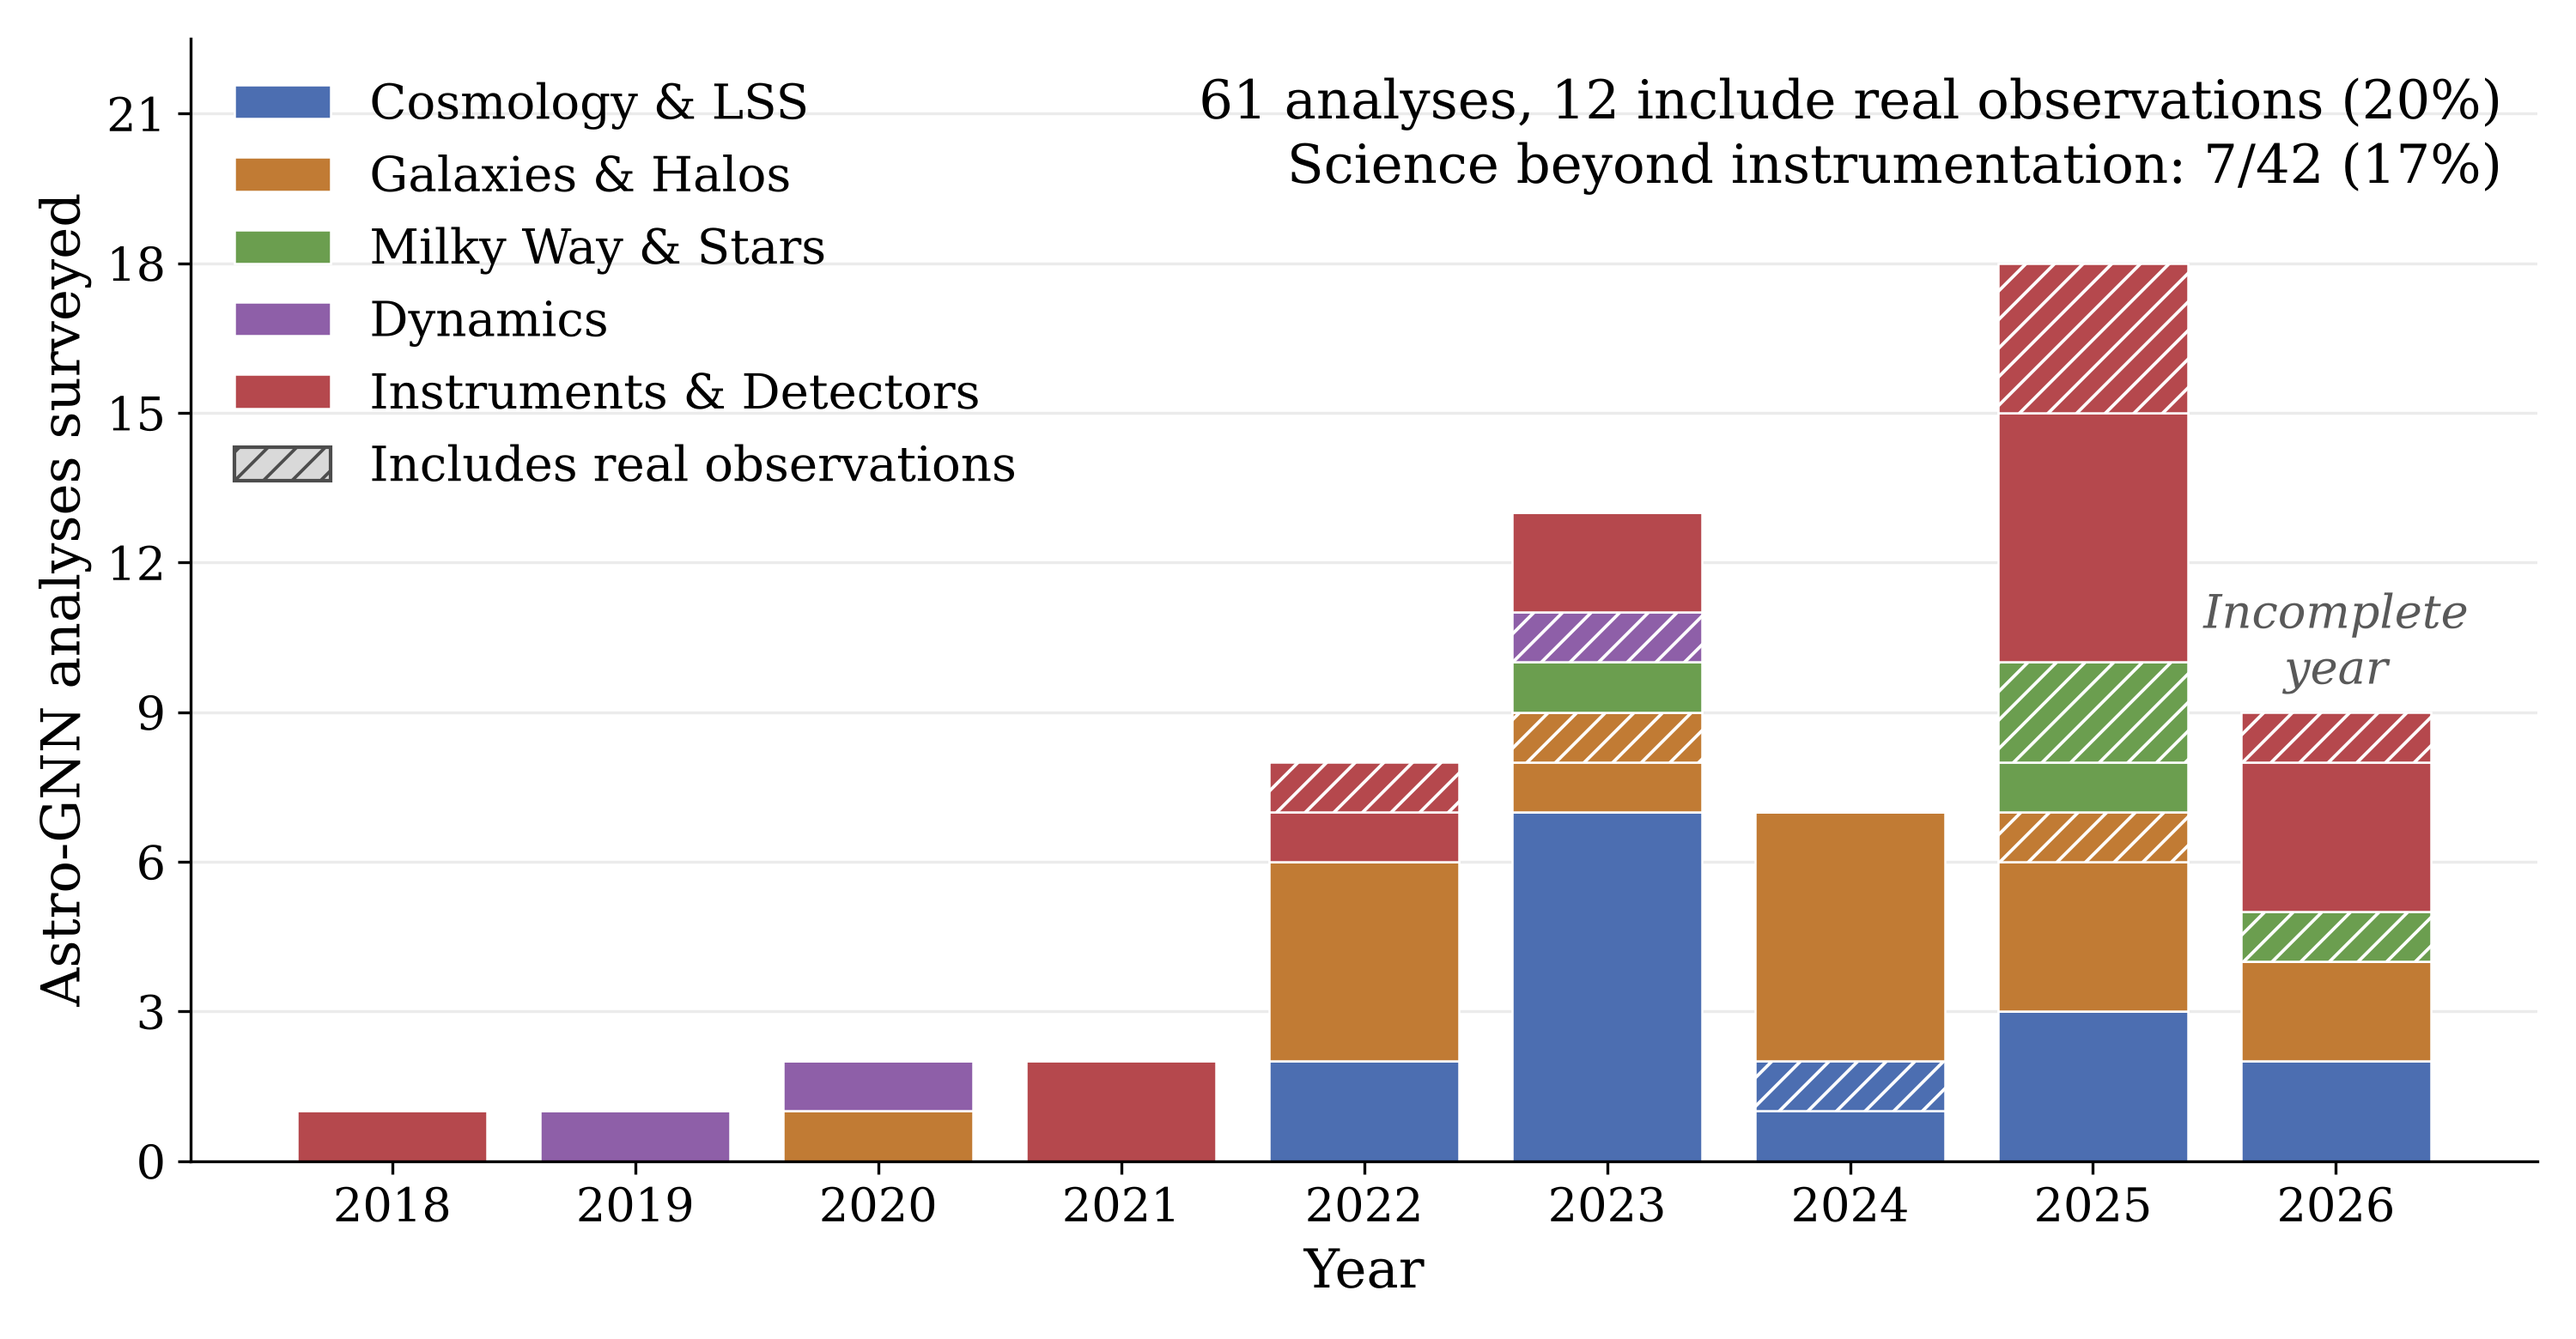
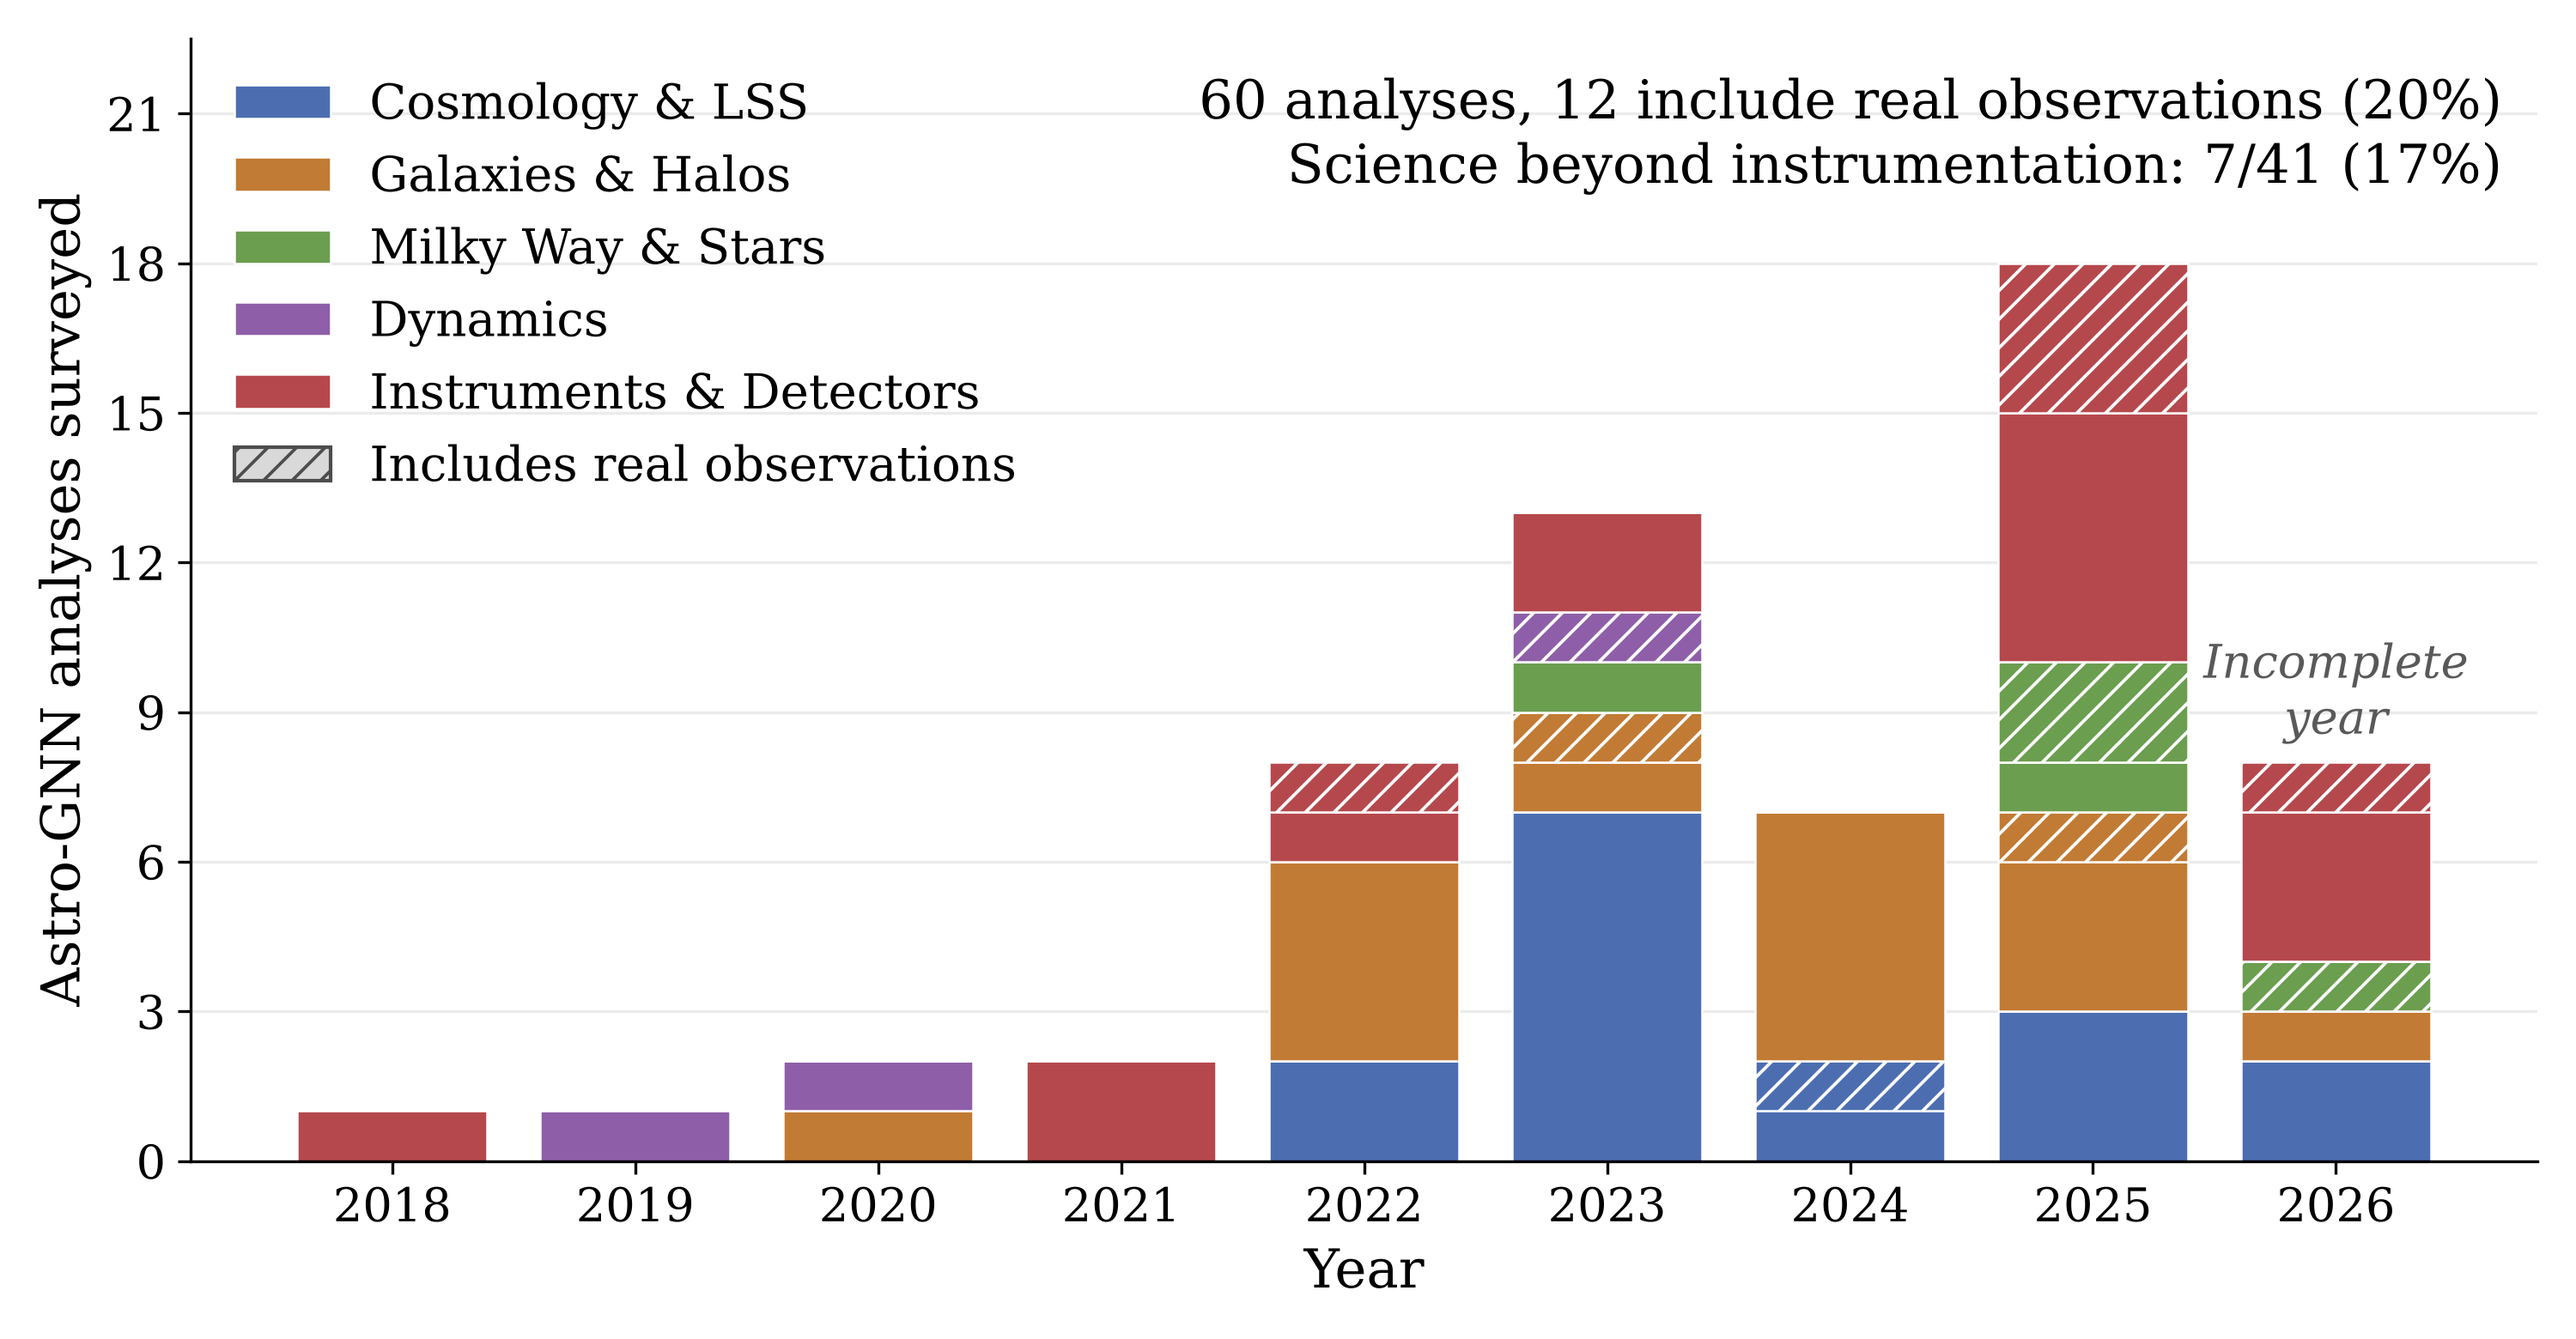
Survey finalised: 61 analyses, verified flags, Appendix 3 table; thesis bib entry fixed

Changed region(s): [[0.868, 0.4308, 0.961, 0.6154], [0.868, 0.6769, 0.961, 0.7692], [0.465, 0.0615, 0.496, 0.0923]]

diff --git a/main.tex b/main.tex
@@ -660,7 +660,7 @@ Beware two red flags: an invariance or equivariance claimed but not held, and th
 Although a review focuses mostly on what has been done, the synthesis of these prior works also points beyond the present state of the art. We now flag three directions we expect to matter most: the move onto real data, generative graph models, and new kinds of graphs.
 
 \begin{itemize}
-    \item \textbf{Application on real data.} The ultimate goal of natural science is experiments done using real-world data. The survey of GNN applications above reveals a clear gap (Figure~\ref{fig:papers_per_year}). Of the roughly sixty graph-network analyses we cite, fewer than one in four includes any real observations, and the rate splits unevenly: instrumentation, detector reconstruction at IceCube and the Pierre Auger Observatory above all, includes real data in \textcolor{red}{nearly} one analysis in three, while the scientific analyses manage only one in six. This is the single most consequential gap in the field. It is a gap based more on general practice than on the domain-adaptive capabilities of GNNs. Any data-driven method trained on a simulation inherits the simulation's assumptions, and the move to real data demands a robustness to shifts stemming from survey masks, fibre collisions, redshift-space distortions, selection, and errors on e.g. positions, which is only now being developed. The graph framing is crucial for successfully bridging simulation and observation --- both in theory and practice. Because robust inductive biases can be included (e.g. galaxy positions enter as biased tracers rather than as pixels) the domain shift between simulation and survey typically stays smaller when using GNNs compared to similar methods, which keeps domain adaptation either tractable or unnecessary \citep{deSanti2023_fieldlevel_LFI, Roncoli2023_domainadaptation_cosmology, Lee2024_SDSS_domaingeneralization}. Porting these statistical methods onto real data is the field's most important next step. The domain gap is primed for being closed with GNNs.
+    \item \textbf{Application on real data.} The ultimate goal of natural science is experiments done using real-world data. The survey of GNN applications above reveals a clear gap (Figure~\ref{fig:papers_per_year}). Of the roughly sixty graph-network analyses we cite, fewer than one in four includes any real observations, and the rate splits unevenly: instrumentation, detector reconstruction at IceCube and the Pierre Auger Observatory above all, includes real data in \textcolor{red}{roughly one analysis in four}, while the scientific analyses manage only one in six. This is the single most consequential gap in the field. It is a gap based more on general practice than on the domain-adaptive capabilities of GNNs. Any data-driven method trained on a simulation inherits the simulation's assumptions, and the move to real data demands a robustness to shifts stemming from survey masks, fibre collisions, redshift-space distortions, selection, and errors on e.g. positions, which is only now being developed. The graph framing is crucial for successfully bridging simulation and observation --- both in theory and practice. Because robust inductive biases can be included (e.g. galaxy positions enter as biased tracers rather than as pixels) the domain shift between simulation and survey typically stays smaller when using GNNs compared to similar methods, which keeps domain adaptation either tractable or unnecessary \citep{deSanti2023_fieldlevel_LFI, Roncoli2023_domainadaptation_cosmology, Lee2024_SDSS_domaingeneralization}. Porting these statistical methods onto real data is the field's most important next step. The domain gap is primed for being closed with GNNs.
     \item \textbf{Generative graph models.} A generative graph model synthesises a full graph from a lower-dimensional seed. The difficulty begins with the sheer size of the space being sampled: the number of graphs on $N$ nodes grows super-exponentially, as $2^{N(N-1)/2}$, and the model must place its mass on the vanishingly small subspace that is physically valid. But the astrophysical prize is worth that difficulty: sampling plausible merger trees or satellite environments directly from observed galaxies would be transformative. Merger-tree generation from observed properties is especially fundamental to galaxy science, since it would let us compare stellar and halo assembly directly. The astrophysical cases so far, the synthesis of merger trees and cosmic fields \citep{Tang2022_merger_normalizingflow, Jagvaral2022_intrinsicalignment_GNN, Nguyen2024_FLORAH_assembly, Nguyen2025_mergertree_generative, Nguyen2026_DREAMS_diffusion, Onutu2025_scorematching_cosmology}, already raise a second difficulty: the problems are all ill-posed, since any reasonable full graph has far more degrees of freedom than the seed vector $z$ that generates it, so the map $z \mapsto G$ is one-to-many and the model must learn a distribution $p(G \mid z)$ rather than a function \citep{Vignac2023_DiGress}. Although this structure makes the problem extremely hard, it also has a useful consequence: a forward generator $p(G\mid z)$ defines, through Bayes, its inverse $p(z\mid G) \propto p(G\mid z)\,p(z)$, so a generative model implies that the regression --- recovering the seed parameters from a graph --- can also be done. Momentum for these methods comes increasingly from outside astrophysics: graph and structure generation already designs molecules and proteins \citep{Hoogeboom2022_EDM_molecules, Watson2023_RFdiffusion}, and reward-driven samplers over graphs such as \texttt{GFlowNets} can produce diverse, high-value candidates for scientific discovery \citep{Bengio2021_GFlowNet, Jain2022_GFlowNet_biological, Bengio2023_GFlowNet_foundations}. We expect this tooling to be developed further, carried in part by heavy private investment and the economics of drug discovery, and astrophysics stands to inherit these advances.
     \item \textbf{New kinds of graphs.} The nature of the Universe is dynamic and multi-scale, meaning that the graphs themselves should ideally be able to (a) change with time and (b) capture long- and short-range interactions at once. Some solutions to capture these necessities are already in place. The \emph{topological} GNN combines graphs at different scales, capturing long- and short-range coupling without inflating the edge count to billions \citep{Lee2025_topological_cosmology}; the cosmic web is the natural target, where a galaxy's fate is spun both from its nearest neighbours and from the larger scale structures around it. The \emph{temporal} GNN, defined on a graph that rewires, grows, or shrinks with time\citep{Rossi2020_temporal_GNN}, fits time-ordered data such as the on-the-fly merger tree, which sprouts a node at every halo merger, or potentially the transient sky, whose alert graph rewires nightly as sources brighten and fade in surveys like the Rubin Observatory's LSST \citep{Ivezic2019_LSST_design}.
 \end{itemize}

diff --git a/figures/papers_per_year_table.tex b/figures/papers_per_year_table.tex
@@ -44,7 +44,6 @@ Analysis & Year & Subfield & Real obs.\\
 \citet{Iqbal2025_cluster_xray_GNN} & 2025 & Galaxies \& Halos & yes\\
 \citet{Nguyen2025_mergertree_generative} & 2025 & Galaxies \& Halos & --\\
 \citet{Onutu2025_scorematching_cosmology} & 2025 & Galaxies \& Halos & --\\
-\citet{Jespersen2026_environment_assembly} & 2026 & Galaxies \& Halos & --\\
 \citet{Nguyen2026_DREAMS_diffusion} & 2026 & Galaxies \& Halos & --\\
 \citet{Nguyen2023_dwarf_densityprofile} & 2023 & Milky Way \& Stars & --\\
 \citet{Berni2025_MWhalo_substructure} & 2025 & Milky Way \& Stars & yes\\

diff --git a/notes/review_agenda.md b/notes/review_agenda.md
@@ -11,7 +11,7 @@
 
 - **Item 5 —** **Abstract/§1.9 numbers** ⬜ Update the numbers (the 1-in-6 stat and the paper counts) once the review rounds are done.
 - **Item 21 —** **Fig. 1.17 reproducibility** ✅ Round 4 complete: four instrumentation papers added with flags verified against abstracts/full text (all four sim-only; Reck's claimed ORCA4 cross-check is unshown); Krishnaraj2026 excluded (fully connected network on power spectra, not graph-based); Appendix 3 longtable auto-generated by the script, so figure, table, and numbers share one source. Final (after the Reck correction and dropping Jespersen2021 from the survey per CKJ): 61 analyses, 12 real (20%), science 7/42 (exactly 1 in 6), instrumentation 5/19 (26%) — abstract and "fewer than one in four" hold; the frontier's instrumentation fraction now reads "roughly one analysis in four" (in red). Optional residue: a stated-criteria sentence in the Appendix 3 intro if CKJ wants one.
-- **Item 23 —** **Wrong-kind sources** ⬜ Jespersen 2021 (project webpage) cited twice; Yang & Yu among the Ω_m/σ₈ GNNs; Rossi entry bare. Decisions, then mechanics.
+- **Item 23 —** **Wrong-kind sources** 🟡 Jespersen 2021 entry replaced with the proper thesis record (direct PDF url, 16 Oct) ✅; remaining: Yang & Yu among the Ω_m/σ₈ GNNs, and the bare Rossi entry.
 - **Item 24 —** **Bibliography mechanics** ⬜ Residue after the round-3 dedup and ampersand fixes: Iqbal entry completion (A&A 704, A334), preprint-vs-publication year convention, and the bibtex warnings (Ting2026 extra pages field, undefined month string "july", pascal_pensees author+editor clash, Thiele2026 empty publisher/pages).
 
 ## B. CKJ's % comments and placeholders in main.tex
